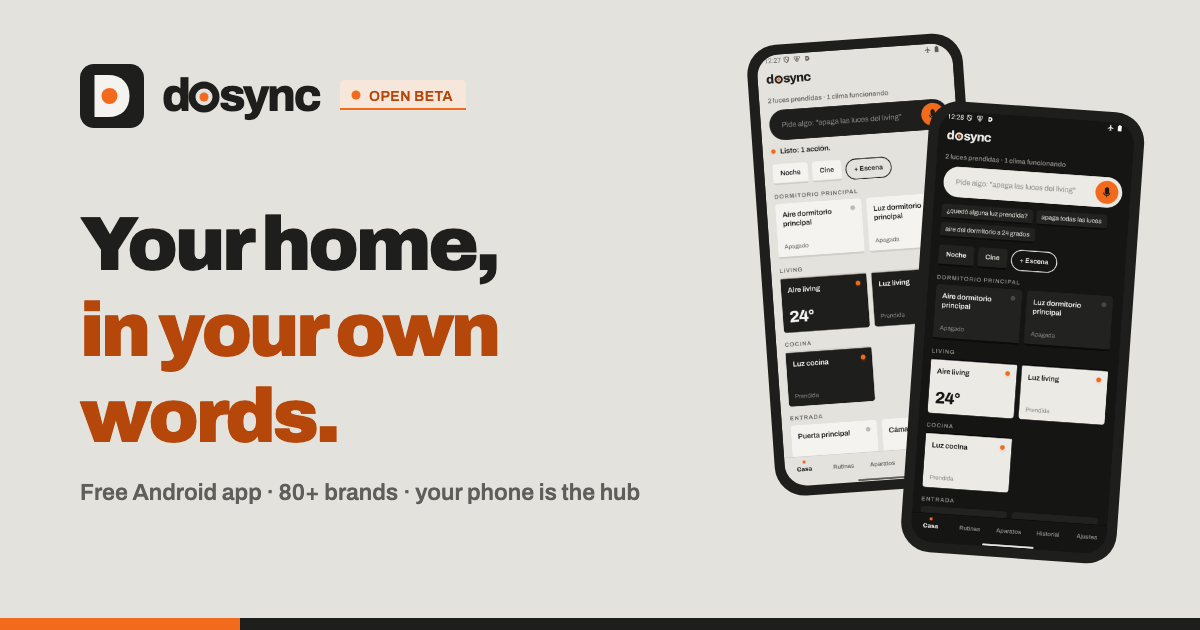
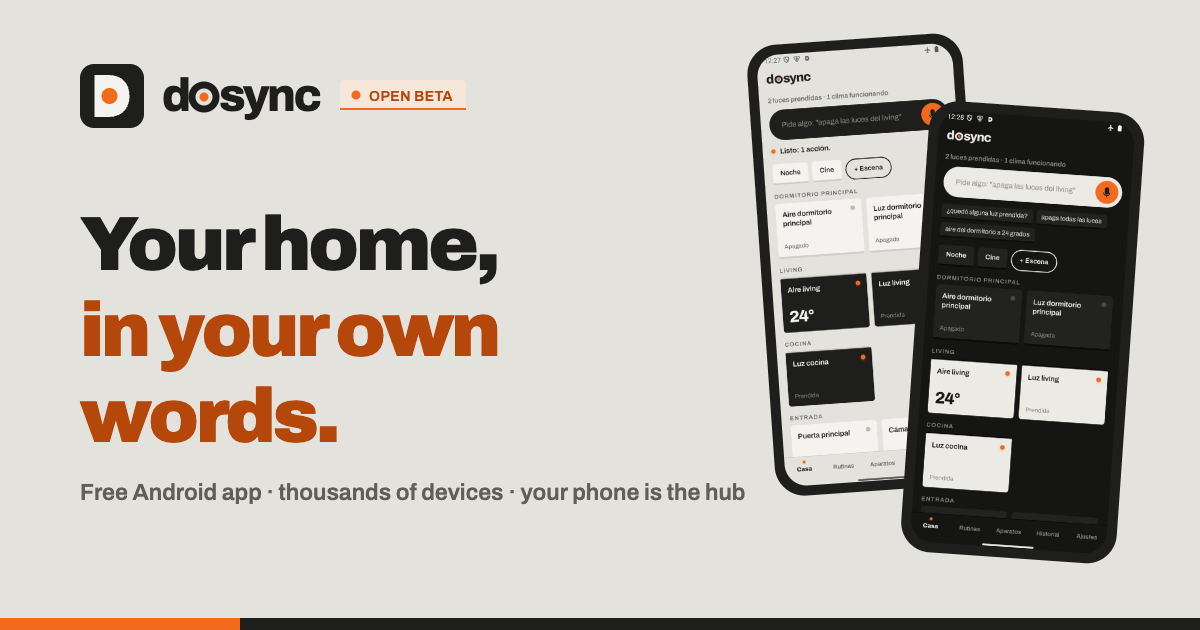
site: /app says thousands of devices instead of a brand count

Changed region(s): [[0.2158, 0.754, 0.6167, 0.8143]]

diff --git a/app/index.html b/app/index.html
@@ -9,7 +9,7 @@
 <meta property="og:type" content="website">
 <meta property="og:site_name" content="DoSync">
 <meta property="og:title" content="DoSync App — your home, in your own words (open beta)">
-<meta property="og:description" content="Free Android app: lights, ACs, TVs and appliances from 80+ brands, in your own words. Your phone is the hub.">
+<meta property="og:description" content="Free Android app: lights, ACs, TVs and appliances, thousands of devices, in your own words. Your phone is the hub.">
 <meta property="og:image" content="https://dosync.dev/app/img/og.png">
 <meta property="og:image:width" content="1200">
 <meta property="og:image:height" content="630">
@@ -277,8 +277,8 @@ footer{padding:40px 0;background:var(--ink)}
 <section id="marcas">
   <div class="wrap">
     <div class="eyebrow"><span lang="es">Compatibilidad</span><span lang="en">Compatibility</span></div>
-    <h2 lang="es">Más de 80 marcas, en América y Europa</h2>
-    <h2 lang="en">80+ brands, across the Americas and Europe</h2>
+    <h2 lang="es">Miles de dispositivos, en América y Europa</h2>
+    <h2 lang="en">Thousands of devices, across the Americas and Europe</h2>
     <p class="lead" lang="es">Muchas por tu WiFi, sin internet; otras con la cuenta de la marca. La guía de la app muestra primero las más comunes en tu país.</p>
     <p class="lead" lang="en">Many over your Wi-Fi, without internet; others through the brand's account. The in-app guide shows the most common brands in your country first.</p>
     <div class="brands">
